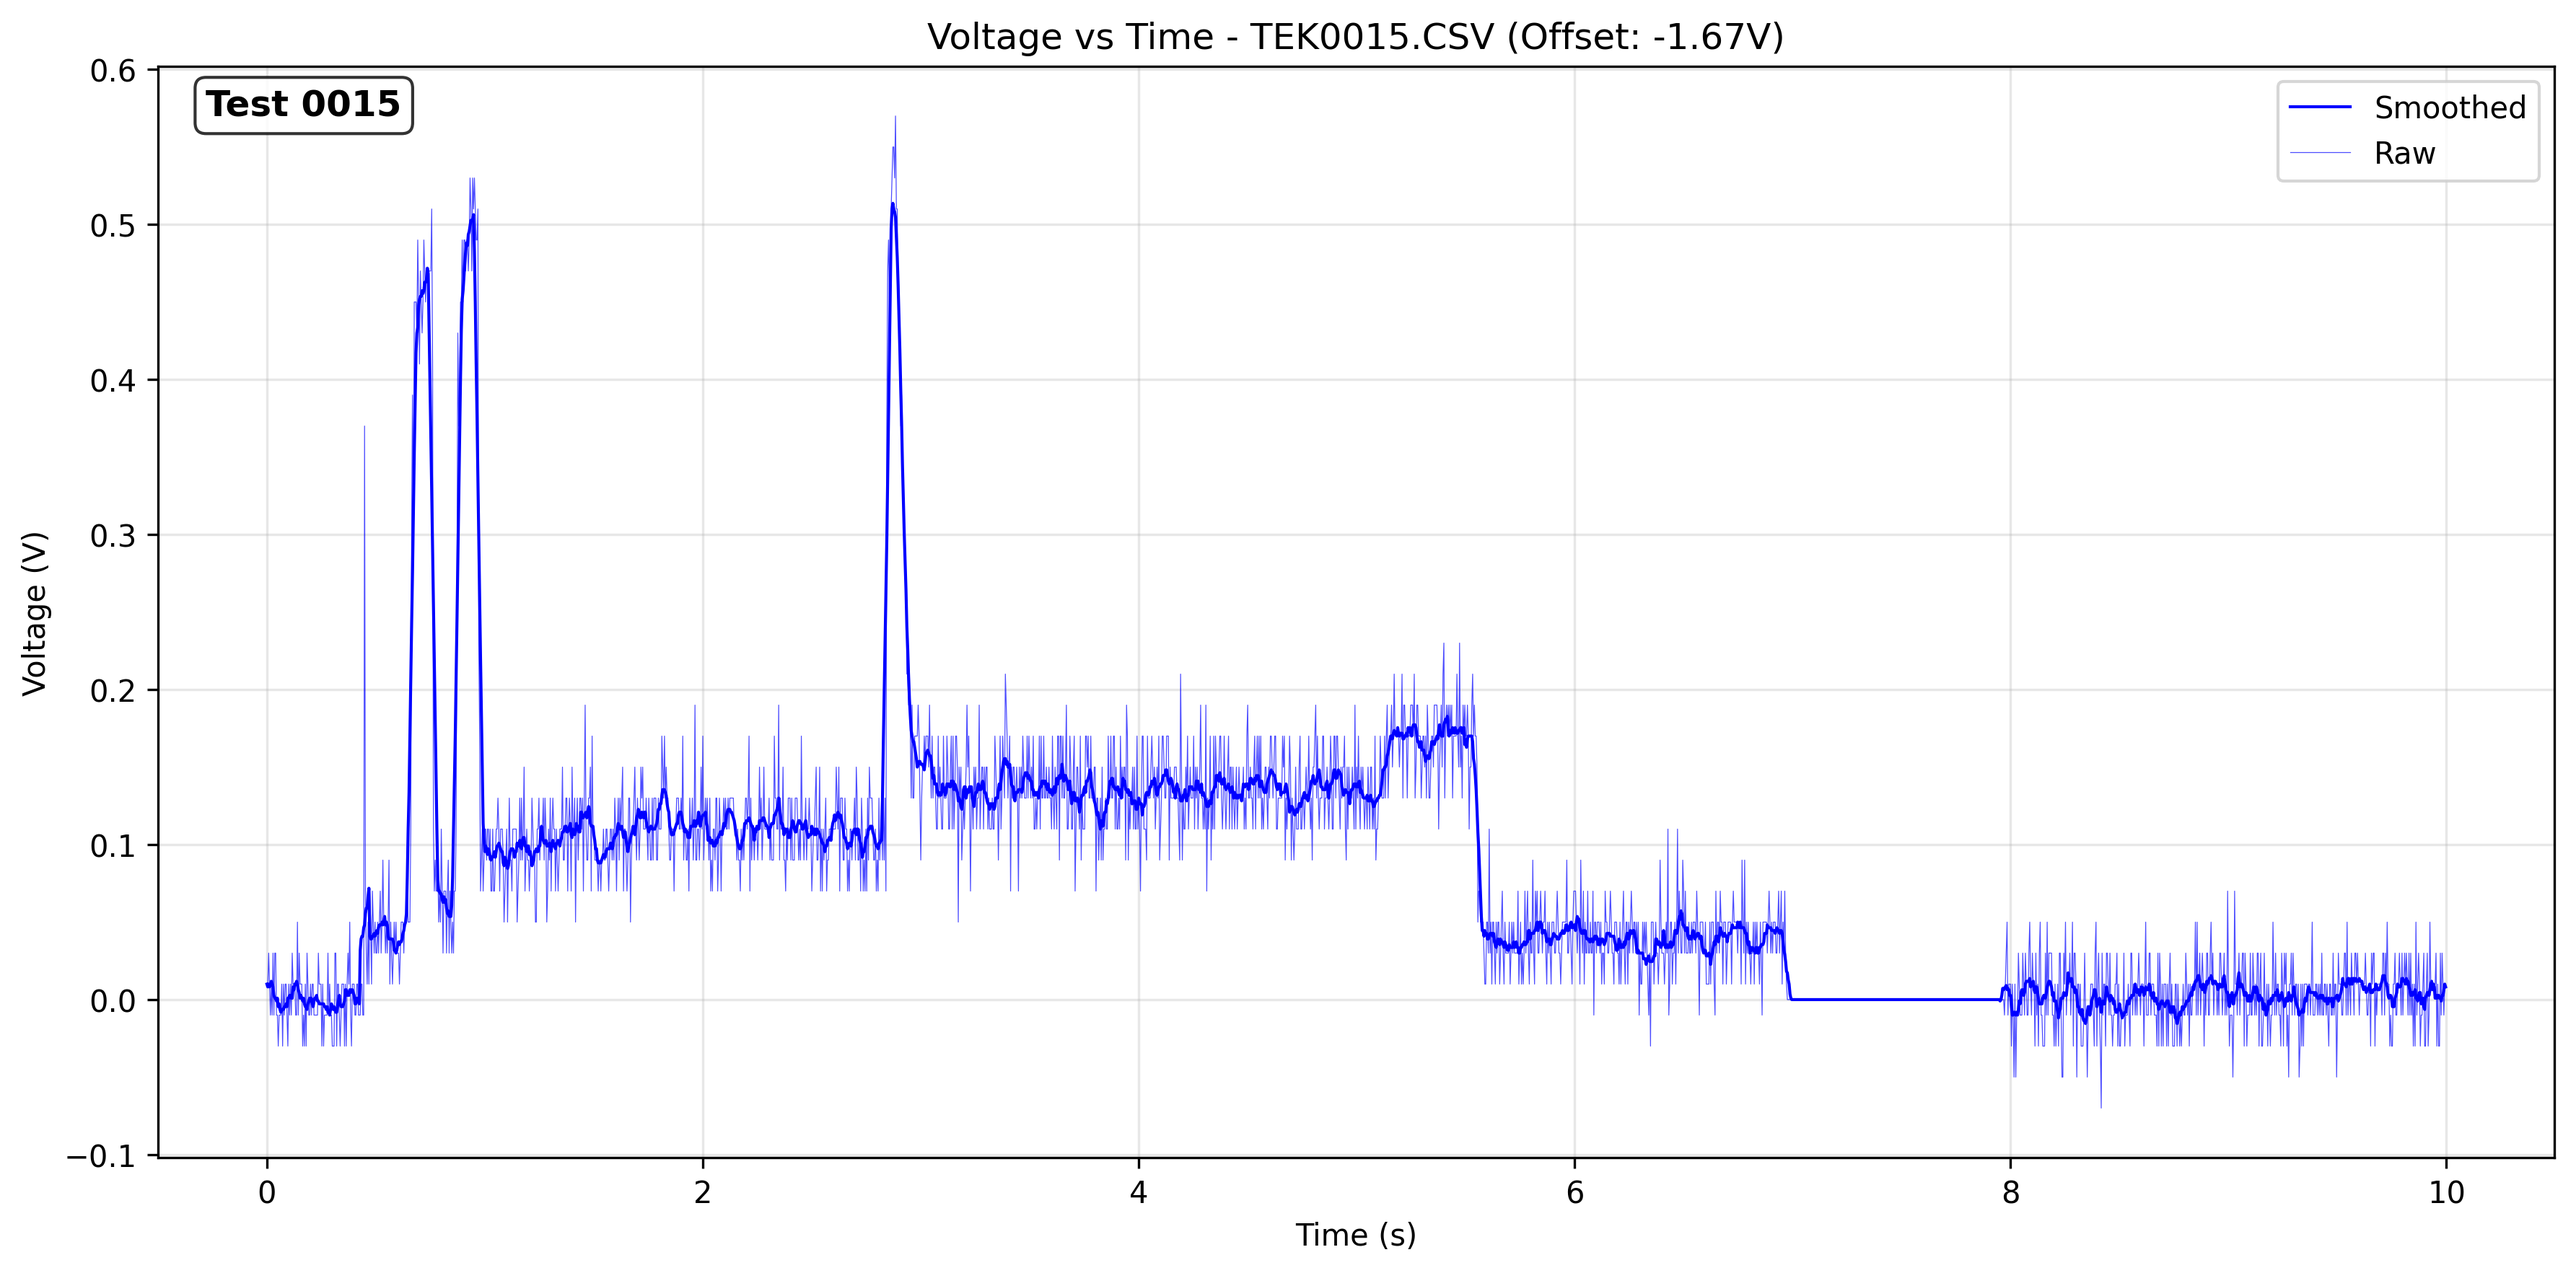
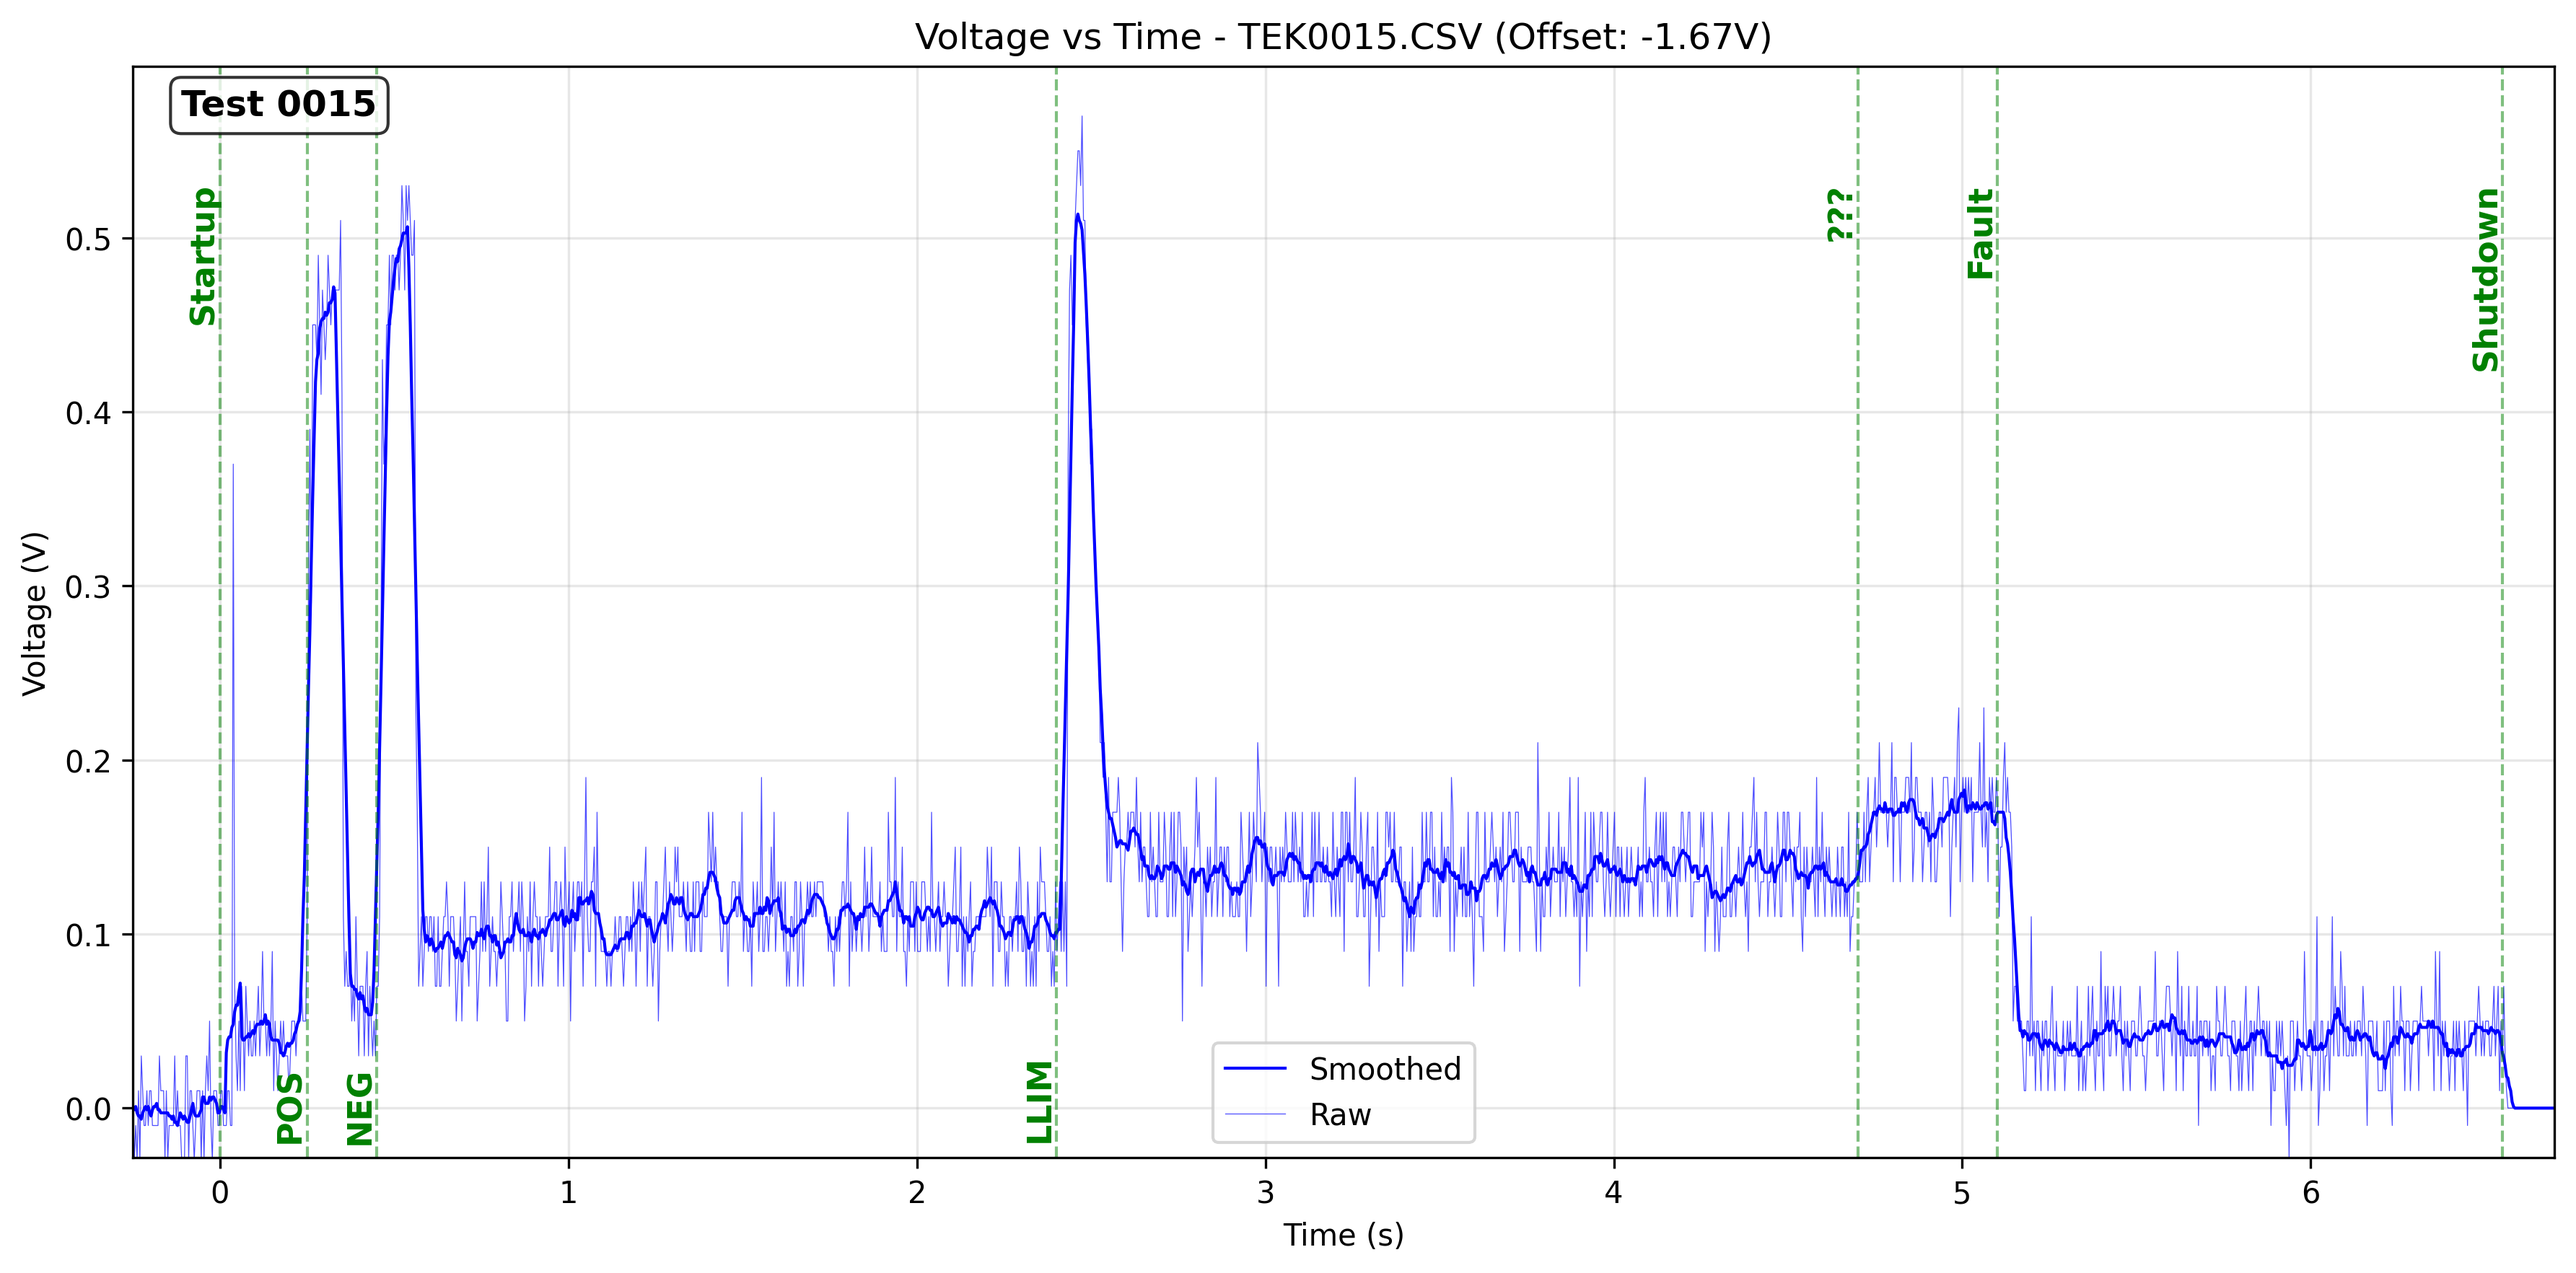
annotated current chart

diff --git a/projects/control_board_current_characterization/v3_aug-2-2025/plot.py b/projects/control_board_current_characterization/v3_aug-2-2025/plot.py
@@ -1,10 +1,38 @@
+
 import matplotlib.pyplot as plt
 import pandas as pd
 import numpy as np
 import os
 import sys
 
-# 
+# I FUCKING LOVE VIBE CODING
+
+# Dictionary for annotated vertical lines: {base_filename: [(x, label, y_offset), ...]}
+ANNOTATED_LINES = {
+    "TEK0015": [
+        (0, "Startup", 0.1),
+        (0.25, "POS", 0.821),
+        (0.45, "NEG", 0.821),
+        (2.4, "LLIM", 0.811),
+        (4.7, "???", 0.1),
+        (5.1, "Fault", 0.1),
+        (6.55, "Shutdown", 0.1)
+    ],
+    # Add more entries as needed, e.g. "TEK0012": [(0.045, "spike start", 0.05), (0.051, "spike end", 0.08)]
+}
+
+# Dictionary for x-axis time ranges: {base_filename: (time_min, time_max)}
+# This is applied after TIME_REBASE
+XRANGES = {
+    "TEK0015": (-0.25, 6.7),
+    # Add more entries as needed
+}
+
+# Dictionary for time axis rebasing: {base_filename: offset_in_seconds}
+TIME_REBASE = {
+    "TEK0015": 0.41,
+    # Add more entries as needed
+}
 
 # Run in terminal with `python plot.py <filename>` or `python plot.py all` to process all files
 
@@ -90,8 +118,17 @@ def plot_voltage_and_current(filename, sensitivity_mv_per_a=200, time_min=None, 
         output_filename (str): Custom base filename for output files (default: None, uses CSV base filename)
         show_smoothed (bool): Whether to display smoothed data (default: True)
     """
+
     # Read the data
     time, voltage = read_tek_csv(filename)
+
+    # Get base filename for saving
+    base_filename = os.path.splitext(os.path.basename(filename))[0]
+
+    # Rebase time axis if specified
+    time_offset = TIME_REBASE.get(base_filename, 0)
+    if time_offset != 0:
+        time = time - time_offset
     
     # For plot 12, use higher offset (0.08V higher than standard)
     # Next time, manually note down the default voltage for 0 A so this isn't an issue (for every test)
@@ -116,14 +153,24 @@ def plot_voltage_and_current(filename, sensitivity_mv_per_a=200, time_min=None, 
     # Apply smoothing to current as well
     current_smooth = smooth_data(current, window_size=11)
     
-    # Get base filename for saving
-    base_filename = os.path.splitext(os.path.basename(filename))[0]
+
+
     if output_filename is not None:
         base_filename = output_filename
-    
+
+    # Get x-range from XRANGES if present and not overridden by arguments
+    x_range = XRANGES.get(base_filename, (None, None))
+    if time_min is None and x_range[0] is not None:
+        time_min = x_range[0]
+    if time_max is None and x_range[1] is not None:
+        time_max = x_range[1]
+
     # Extract test number from filename (e.g., "0012" from "TEK0012.CSV")
     test_number = os.path.splitext(os.path.basename(filename))[0].replace('TEK', '')
-    
+
+    # Get vertical lines to annotate for this file
+    lines_to_annotate = ANNOTATED_LINES.get(base_filename, [])
+
     # Create voltage plot
     fig1, ax1 = plt.subplots(1, 1, figsize=(12, 6))
     if show_smoothed:
@@ -134,26 +181,39 @@ def plot_voltage_and_current(filename, sensitivity_mv_per_a=200, time_min=None, 
     ax1.set_title(f'Voltage vs Time - {os.path.basename(filename)} (Offset: -{voltage_offset:.2f}V)')
     ax1.grid(True, alpha=0.3)
     ax1.legend()
-    
+
+    # Add annotated vertical lines
+    for line in lines_to_annotate:
+        # Support (x, label) or (x, label, y_offset)
+        if len(line) == 3:
+            x, label, y_frac = line
+        else:
+            x, label = line
+            y_frac = 0.1  # Default y offset fraction
+        ax1.axvline(x=x, color='g', linestyle='--', linewidth=1, alpha=0.5)
+        ylim = ax1.get_ylim()
+        y_offset = ylim[1] - y_frac * (ylim[1] - ylim[0])
+        ax1.text(x, y_offset, label, color='g', fontsize=11, fontweight='bold', rotation=90, va='top', ha='right')
+
     # Add test number in top left corner
     ax1.text(0.02, 0.98, f'Test {test_number}', transform=ax1.transAxes, 
              fontsize=12, fontweight='bold', verticalalignment='top',
              bbox=dict(boxstyle='round,pad=0.3', facecolor='white', alpha=0.8))
-    
+
     # Set time range if specified
     if time_min is not None or time_max is not None:
         ax1.set_xlim(time_min, time_max)
         # Set y-axis to match displayed data range
         time_mask = ((time_min is None) or (time >= time_min)) & ((time_max is None) or (time <= time_max))
         ax1.set_ylim(voltage[time_mask].min() * 0.95, voltage[time_mask].max() * 1.05)
-    
+
     # Save voltage plot
     voltage_filename = f"{base_filename}_voltage.png"
     plt.tight_layout()
     plt.savefig(voltage_filename, dpi=300, bbox_inches='tight')
     print(f"Voltage plot saved as: {voltage_filename}")
     plt.close(fig1)
-    
+
     # Create current plot
     fig2, ax2 = plt.subplots(1, 1, figsize=(12, 6))
     if show_smoothed:
@@ -165,26 +225,39 @@ def plot_voltage_and_current(filename, sensitivity_mv_per_a=200, time_min=None, 
     ax2.set_title(f'Current vs Time (Sensitivity: {sensitivity_mv_per_a} mV/A{smoothed_text})')
     ax2.grid(True, alpha=0.3)
     ax2.legend()
-    
+
+    # Add annotated vertical lines
+    for line in lines_to_annotate:
+        # Support (x, label) or (x, label, y_offset)
+        if len(line) == 3:
+            x, label, y_frac = line
+        else:
+            x, label = line
+            y_frac = 0.1  # Default y offset fraction
+        ax2.axvline(x=x, color='g', linestyle='--', linewidth=1, alpha=0.5)
+        ylim = ax2.get_ylim()
+        y_offset = ylim[1] - y_frac * (ylim[1] - ylim[0])
+        ax2.text(x, y_offset, label, color='g', fontsize=11, fontweight='bold', rotation=90, va='top', ha='right')
+
     # Add test number in top left corner
     ax2.text(0.02, 0.98, f'Test {test_number}', transform=ax2.transAxes, 
              fontsize=12, fontweight='bold', verticalalignment='top',
              bbox=dict(boxstyle='round,pad=0.3', facecolor='white', alpha=0.8))
-    
+
     # Set time range if specified
     if time_min is not None or time_max is not None:
         ax2.set_xlim(time_min, time_max)
         # Set y-axis to match displayed data range
         time_mask = ((time_min is None) or (time >= time_min)) & ((time_max is None) or (time <= time_max))
         ax2.set_ylim(current[time_mask].min() * 0.95, current[time_mask].max() * 1.05)
-    
+
     # Save current plot
     current_filename = f"{base_filename}_current.png"
     plt.tight_layout()
     plt.savefig(current_filename, dpi=300, bbox_inches='tight')
     print(f"Current plot saved as: {current_filename}")
     plt.close(fig2)
-    
+
     # Print some statistics
     print(f"\nFile: {filename}")
     print(f"Time range: {time.min():.6f} s to {time.max():.6f} s")
@@ -279,9 +352,9 @@ def main():
 # TEK0012: 0.0440 to 0.0512 s
 # TEK0017: 0.0292 to 0.0400 s
 
-plot_voltage_and_current("Oscilloscope-Data/TEK0012.CSV", sensitivity_mv_per_a=200, time_min=0.0440, time_max=0.0512, output_filename="TEK0012_capacitor_spike", show_smoothed=False)
-plot_voltage_and_current("Oscilloscope-Data/TEK0017.CSV", sensitivity_mv_per_a=200, time_min=0.0292, time_max=0.0400, output_filename="TEK0017_capacitor_spike", show_smoothed=False)
-plot_voltage_and_current("Oscilloscope-Data/TEK0017.CSV", sensitivity_mv_per_a=200, time_min=0.24, time_max=0.40, output_filename="TEK0017_pos_contactor", show_smoothed=True)
+#plot_voltage_and_current("Oscilloscope-Data/TEK0012.CSV", sensitivity_mv_per_a=200, time_min=0.0440, time_max=0.0512, output_filename="TEK0012_capacitor_spike", show_smoothed=False)
+#plot_voltage_and_current("Oscilloscope-Data/TEK0017.CSV", sensitivity_mv_per_a=200, time_min=0.0292, time_max=0.0400, output_filename="TEK0017_capacitor_spike", show_smoothed=False)
+#plot_voltage_and_current("Oscilloscope-Data/TEK0017.CSV", sensitivity_mv_per_a=200, time_min=0.24, time_max=0.40, output_filename="TEK0017_pos_contactor", show_smoothed=True)
 
 
 if __name__ == "__main__":

diff --git a/projects/control_board_current_characterization/v3_aug-6-2025/plot.py b/projects/control_board_current_characterization/v3_aug-6-2025/plot.py
@@ -17,7 +17,7 @@ import sys
 # TEK0012: 0.0440 to 0.0512 s
 # TEK0017: 0.0292 to 0.0400 s
 
-VOLTAGE_OFFSET = 0#1.67 # Internal voltage offset of the TMCS1108A3U current sensor, derived from csv data
+VOLTAGE_OFFSET = 1.67 # Internal voltage offset of the TMCS1108A3U current sensor, derived from csv data
 
 def smooth_data(data, window_size=11):
     """
